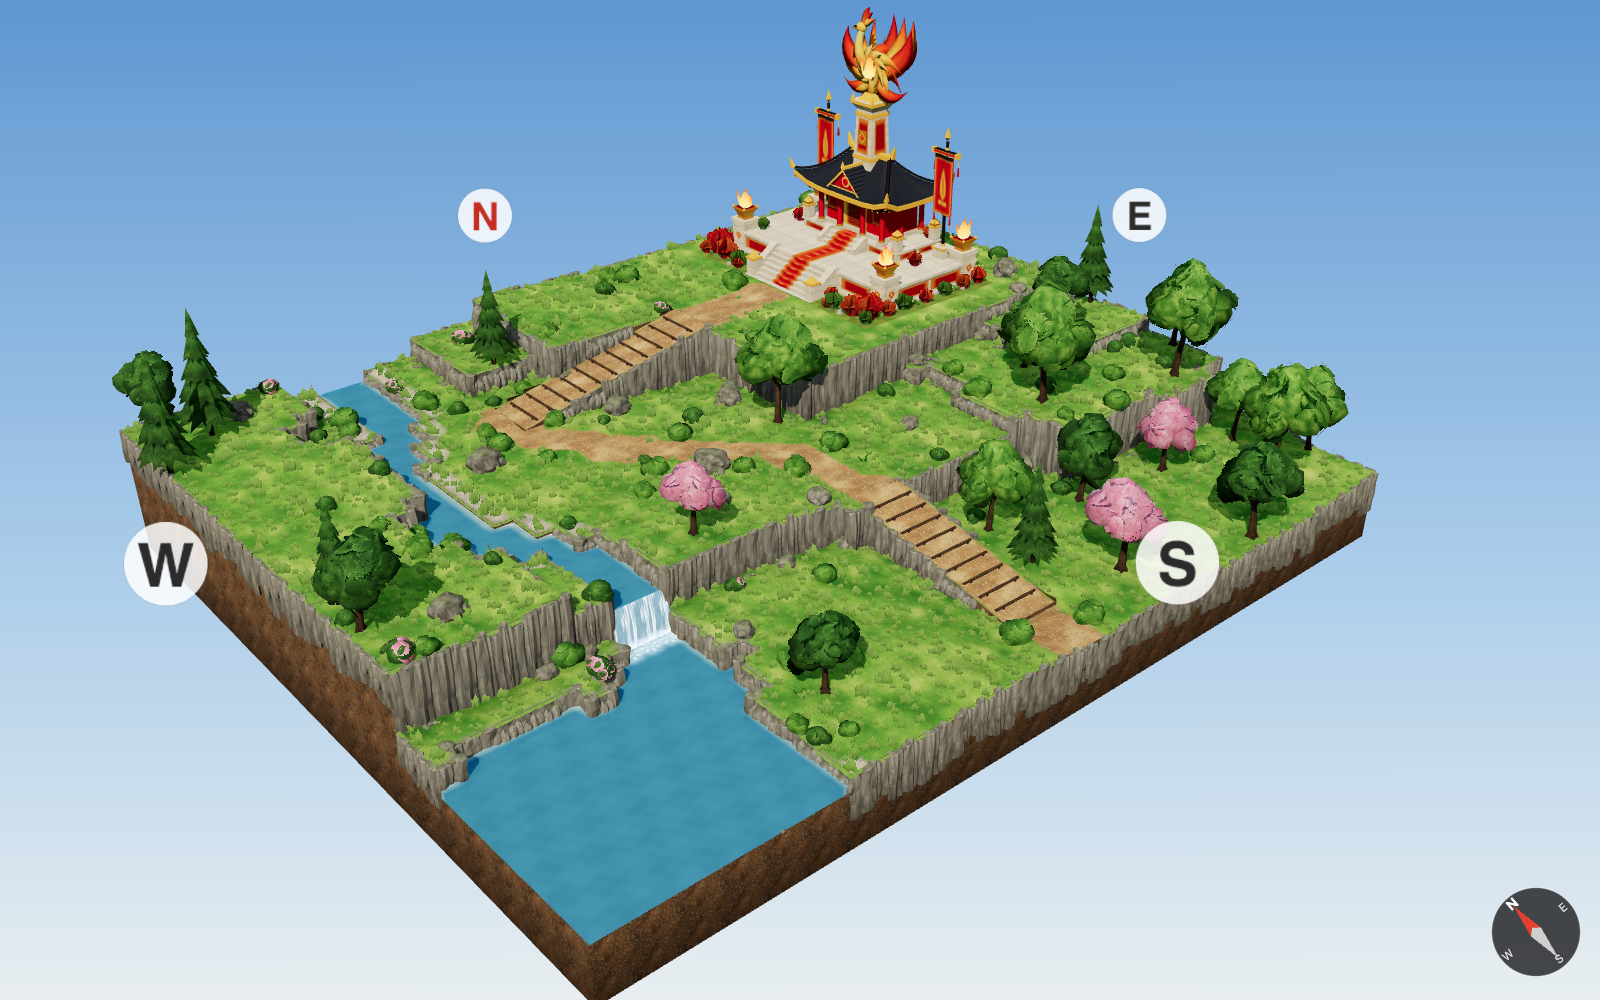
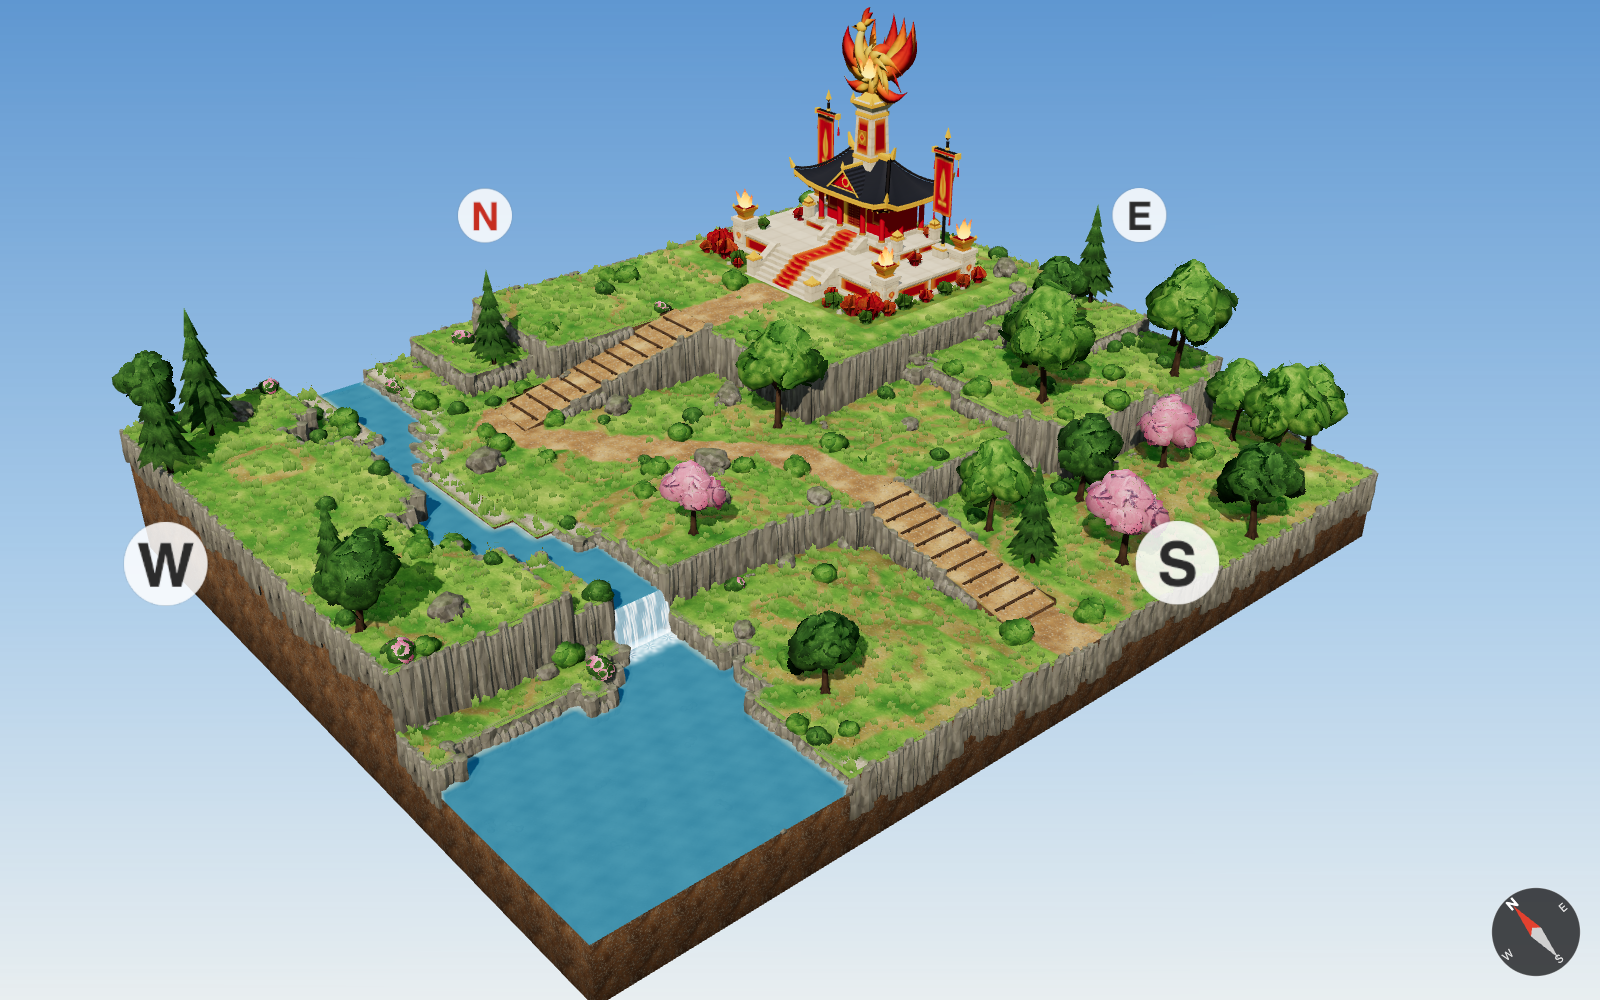
interactive_world: tile scene follows the 1x1 tile-system sheet (one step across any edge inside a region, ridge, saddles, swale, earth on slopes)
The example scene builds a limited vertex field of whole levels per region, so inside a region every edge joins and all five
shapes appear (saddles from diagonal mounds); sloped tiles show worn earth; new Ridge & saddles view; docs and renders updated.

diff --git a/interactive_world/core/tiles/scene_example.js b/interactive_world/core/tiles/scene_example.js
@@ -5,8 +5,10 @@
 // Built the same way as terrain/generate.js: named broad forms first, noise only perturbs them.
 //   * a STEP FIELD, constant per tile (sampled at the tile centre): the region's level. Two tiles in different regions disagree on their
 //     shared edge, which is what makes risers and cliffs;
-//   * a CONTINUOUS FIELD, sampled at each corner: gentle rolling ground, and the ramps (a ramp tile takes its height from the ramp only);
-//   * quantize every corner to 0.2 m levels and clamp each tile to one level of spread (the five shapes).
+//   * a VERTEX FIELD per region, in whole levels: gentle rolling ground plus small named forms (a ridge, diamond mounds that meet in
+//     saddles, a swale), limited so neighbouring vertices differ by at most one level. Tiles of one region share these corners, so inside
+//     a region every edge joins and every tile is one of the five shapes; ramps take their exact 0.2 m-per-metre heights instead;
+//   * the clamp to one level of spread per tile is kept as a safety net.
 // Pure data, no three.js.
 import { TileGrid, STEP, GROUND, NO_WATER } from './tile_grid.js';
 import { fbm, clamp } from '../math/noise.js';
@@ -26,6 +28,15 @@ export const SCENE = {
   // the dirt path, as a polyline in metres (x, z); the ramps are on it
   path: [[25.5, 40], [25.5, 27], [24.5, 22], [20, 16.5], [16.2, 12.5], [15.5, 9.5], [28, 9.5], [34.2, 9.5]],
   pathHalfWidth: 1.15,
+  // small landforms from the 1x1 tile-system sheet, in the low ground and on the terrace (metres; added to the rolling ground)
+  //   ridges: a crest along a segment falling 0.2 m per metre on both sides (ramp tiles on the flanks)
+  //   mounds: diamond (L1) hillocks centred on a tile corner; two of them touching diagonally make a saddle tile between them
+  //   swales: a shallow dry valley along a segment
+  forms: {
+    ridges: [{ a: [30.5, 38.5], b: [38.5, 33.5], h: 0.6 }],
+    mounds: [{ x: 43, z: 34, h: 0.4 }, { x: 42, z: 35, h: 0.4 }, { x: 31, z: 23, h: 0.4 }, { x: 30, z: 24, h: 0.4 }, { x: 17, z: 31, h: 0.4 }, { x: 18, z: 32, h: 0.4 }],
+    swales: [{ a: [26.5, 18.5], b: [34.5, 24.5], h: 0.4 }],
+  },
   stream: { x: 10, amp: 1.6, period: 11, halfWidth: 1.5, bedDrop: 0.4, waterDepth: 0.22, fallZ: 27 },
 };
 
@@ -74,8 +85,56 @@ function rampHeight(r, x, z) {
 /** Gentle rolling ground, metres (continuous; zero on pads, ramps and water). */
 function rolling(x, z) { return (fbm(x * 0.06, z * 0.06, SEED + 5, 3) - 0.5) * 2.2; }
 
+/** The named small landforms (SCENE.forms) at (x, z), metres. Slopes are 0.2 m per metre, so they quantize to ramp, corner and saddle tiles. */
+function forms(x, z) {
+  const f = SCENE.forms;
+  let h = 0;
+  for (const r of f.ridges) h = Math.max(h, r.h - 0.2 * distToPolyline([r.a, r.b], x, z));
+  for (const m of f.mounds) h = Math.max(h, m.h - 0.2 * (Math.abs(x - m.x) + Math.abs(z - m.z)));
+  for (const v of f.swales) h -= Math.max(0, v.h - 0.2 * distToPolyline([v.a, v.b], x, z));
+  return h;
+}
+
+/**
+ * A vertex field of levels (width + 1) x (depth + 1) (fn returns whole levels), limited so that every vertex differs from its eight neighbours by at
+ * most one level. Inside one region all tiles share these corners, so the ground there never breaks into risers and every tile is one
+ * of the five shapes (the 1x1 sheet's rule: at most one step across any edge). Risers and cliffs only come from region borders.
+ */
+function limitedField(width, depth, fn) {
+  const W1 = width + 1, D1 = depth + 1, f = new Int16Array(W1 * D1);
+  for (let z = 0; z < D1; z++) for (let x = 0; x < W1; x++) f[z * W1 + x] = fn(x, z);
+  for (let pass = 0, changed = true; changed && pass < 64; pass++) {
+    changed = false;
+    for (let z = 0; z < D1; z++) for (let x = 0; x < W1; x++) {
+      let lo = -Infinity, hi = Infinity;
+      for (let dz = -1; dz <= 1; dz++) for (let dx = -1; dx <= 1; dx++) {
+        const nx = x + dx, nz = z + dz;
+        if ((dx || dz) && nx >= 0 && nz >= 0 && nx < W1 && nz < D1) { const v = f[nz * W1 + nx]; lo = Math.max(lo, v - 1); hi = Math.min(hi, v + 1); }
+      }
+      const i = z * W1 + x, v = Math.min(Math.max(f[i], lo), hi);
+      if (v !== f[i]) { f[i] = v; changed = true; }
+    }
+  }
+  return f;
+}
+
 export function buildExampleScene() {
   const { width, depth } = SCENE;
+  const st0 = SCENE.stream, pad0 = SCENE.shrine;
+  const padR = { x0: pad0.tx, z0: pad0.tz, x1: pad0.tx + pad0.d, z1: pad0.tz + pad0.w };
+  const fields = {};
+  const fieldFor = (reg) => (fields[reg] ??= limitedField(width, depth, (x, z) => {
+    const L = (m) => Math.round(m / STEP);
+    if (reg === 'stream') return L(Math.min(0, rolling(x, z)) * 0.3);
+    if (reg === 'pool') return 0;
+    if (reg === 'low' || reg === 'terrace') return L(rolling(x, z)) + L(forms(x, z));   // forms quantized on their own keep their exact shapes
+    if (reg === 'plateau') {                                             // the plateau eases down to pad level near the pad
+      const dPad = Math.max(padR.x0 - x, x - padR.x1, padR.z0 - z, z - padR.z1, 0);
+      return L(rolling(x, z) * 0.45 * clamp(dPad / 4, 0, 1));
+    }
+    return L(rolling(x, z) * 0.6);
+  }));
+  const baseLevel = (reg) => Math.round((reg === 'stream' ? SCENE.levels.terrace - st0.bedDrop : SCENE.levels[reg]) / STEP);
   const grid = new TileGrid({ width, depth });
   const region = new Array(width * depth);
   const sh = SCENE.shrine, padRect = { x0: sh.tx, z0: sh.tz, x1: sh.tx + sh.d, z1: sh.tz + sh.w };   // turned W: d along x, w along z
@@ -94,20 +153,9 @@ export function buildExampleScene() {
     const corners = [0, 0, 0, 0];
     for (let k = 0; k < 4; k++) {
       const [x, z] = grid.cornerXZ(tx, tz, k);
-      let hm;
-      if (ramp) hm = rampHeight(ramp, x, z);
-      else if (pad) hm = SCENE.levels.plateau;
-      else if (reg === 'stream') hm = SCENE.levels.terrace - st.bedDrop + Math.min(0, rolling(x, z)) * 0.3;
-      else {
-        hm = SCENE.levels[reg];
-        const roll = reg === 'pool' ? 0 : reg === 'plateau' ? 0.45 : reg === 'low' || reg === 'terrace' ? 1 : 0.6;
-        hm += rolling(x, z) * roll;
-        if (reg === 'plateau') {                                         // the plateau eases down to pad level near the pad
-          const dPad = Math.max(padRect.x0 - x, x - padRect.x1, padRect.z0 - z, z - padRect.z1, 0);
-          hm = SCENE.levels.plateau + (hm - SCENE.levels.plateau) * clamp(dPad / 4, 0, 1);
-        }
-      }
-      corners[k] = Math.round(hm / STEP);
+      if (ramp) corners[k] = Math.round(rampHeight(ramp, x, z) / STEP);
+      else if (pad) corners[k] = Math.round(SCENE.levels.plateau / STEP);
+      else corners[k] = baseLevel(reg) + fieldFor(reg)[z * (width + 1) + x];
     }
     const lo = Math.min(...corners);
     for (let k = 0; k < 4; k++) corners[k] = Math.min(corners[k], lo + 1);   // one level of spread at most: the five shapes
@@ -143,6 +191,7 @@ export function buildExampleScene() {
       { name: 'upper ramp', x: 22, z: 9.5 },
       { name: 'rocky rise', x: 41, z: 24 },
       { name: 'pool', x: 6, z: 35 },
+      { name: 'ridge and saddles', x: 37, z: 35 },
     ],
   };
 }

diff --git a/interactive_world/core/render/tile_view.js b/interactive_world/core/render/tile_view.js
@@ -84,10 +84,10 @@ function groundMaterial(grid, uniforms) {
   const m = new THREE.MeshStandardMaterial({ roughness: 0.95, metalness: 0 });
   m.onBeforeCompile = (sh) => {
     Object.assign(sh.uniforms, uniforms);
-    sh.vertexShader = sh.vertexShader.replace('#include <common>', '#include <common>\nvarying vec3 vWorld;')
-      .replace('#include <worldpos_vertex>', '#include <worldpos_vertex>\nvWorld = (modelMatrix * vec4(transformed, 1.0)).xyz;');
+    sh.vertexShader = sh.vertexShader.replace('#include <common>', '#include <common>\nvarying vec3 vWorld;\nvarying vec3 vNormalW;')
+      .replace('#include <worldpos_vertex>', '#include <worldpos_vertex>\nvWorld = (modelMatrix * vec4(transformed, 1.0)).xyz;\nvNormalW = normalize(mat3(modelMatrix) * objectNormal);');
     sh.fragmentShader = sh.fragmentShader.replace('#include <common>', `#include <common>
-      varying vec3 vWorld;
+      varying vec3 vWorld; varying vec3 vNormalW;
       uniform sampler2D tGrass, tDirt, tSand, tSplat, tAO; uniform vec2 uSize; uniform float uGrid;`)
       .replace('#include <map_fragment>', `
       vec2 wuv = vWorld.xz / 4.0;
@@ -100,6 +100,10 @@ function groundMaterial(grid, uniforms) {
       float path = smoothstep(0.32, 0.62, sp.r + nz * 0.55);
       float sandW = smoothstep(0.30, 0.70, sp.g + nz * 0.5);
       float bed = smoothstep(0.2, 0.6, sp.b);
+      // sloped tiles show worn earth through the grass, as on the 1x1 tile sheet (one step over one metre is about 11 degrees)
+      float slope = 1.0 - normalize(vNormalW).y;
+      float earth = smoothstep(0.004, 0.022, slope + nz * 0.012) * 0.75;
+      grass = mix(grass, dirt * vec3(0.92, 0.88, 0.82), earth);
       vec3 col = mix(grass, sand, sandW);
       col = mix(col, dirt, path);
       col = mix(col, sand * vec3(0.62, 0.66, 0.62), bed);

diff --git a/interactive_world/core/tiles.html b/interactive_world/core/tiles.html
@@ -25,7 +25,7 @@
 <div id="app"></div>
 <div id="panel">
   <h1>Tile terrain · 1 m tiles, 0.2 m steps</h1>
-  <div class="row"><button data-view="hero">Hero</button><button data-view="shrine">Shrine</button><button data-view="falls">Waterfall</button><button data-view="ramp">Slope path</button><button data-view="rise">Rocky rise</button><button data-view="top">Top grid</button><button data-view="wide">Wide</button></div>
+  <div class="row"><button data-view="hero">Hero</button><button data-view="shrine">Shrine</button><button data-view="falls">Waterfall</button><button data-view="ramp">Slope path</button><button data-view="rise">Rocky rise</button><button data-view="forms">Ridge &amp; saddles</button><button data-view="top">Top grid</button><button data-view="wide">Wide</button></div>
   <div class="row"><button data-t="grid">1 m grid</button><button data-t="props">Pieces</button><button data-t="wire">Wireframe</button><button data-t="shadows">Shadows</button><button data-t="compass">Compass</button><button data-t="footprint">Footprint</button></div>
   <div class="box" data-asset><span class="dim">loading the kit…</span></div>
   <div class="box" data-cell></div>

diff --git a/interactive_world/core/app/tile_demo.js b/interactive_world/core/app/tile_demo.js
@@ -1,7 +1,7 @@
 // The tile terrain page (core/tiles.html): the example scene on 1 m tiles with 0.2 m steps, dressed with the terrain kit
 // (assets/development/terrain_kit.glb), the Fire-Kingdom Shrine on the plateau pad, a N/E/S/W compass, and a hover readout per tile.
 // URL options for scripted renders:
-//   core/tiles.html?view=hero|shrine|falls|ramp|rise|top|wide&grid=1&props=0&wire=1&shadows=0&compass=0&footprint=1&ui=0&seed=3&hover=tx,tz
+//   core/tiles.html?view=hero|shrine|falls|ramp|rise|forms|top|wide&grid=1&props=0&wire=1&shadows=0&compass=0&footprint=1&ui=0&seed=3&hover=tx,tz
 import * as THREE from 'three';
 import { createStage } from '../render/stage.js';
 import { createCompass } from '../render/compass.js';
@@ -60,6 +60,7 @@ const VIEWS = {
   falls: () => at(feature('waterfall'), 9, 6, 13, 0.5),
   ramp: () => at(feature('lower ramp'), 13, 9, 12, 0.5),
   rise: () => at(feature('rocky rise'), -14, 9, 16),
+  forms: () => at(feature('ridge and saddles'), -9, 8, 11),
 };
 function setView(name) {
   const v = (VIEWS[name] ?? VIEWS.hero)();

diff --git a/interactive_world/architecture/TILE_TERRAIN_ARCHITECTURE.md b/interactive_world/architecture/TILE_TERRAIN_ARCHITECTURE.md
@@ -1,8 +1,8 @@
 # Tile terrain architecture (1 m tiles, 0.2 m steps)
 
-The fine terrain layer after the "Quantized Heightmap Terrain" guide: a 1 m logical grid whose corner heights are whole 0.2 m levels, rendered as a smooth, dressed world. It follows the same rules as the 5 m cell terrain ([TERRAIN_CELL_ARCHITECTURE.md](TERRAIN_CELL_ARCHITECTURE.md)): every tile owns its four corners, neighbours may disagree, and walls fill the gaps. A 5 m cell is 5 × 5 tiles.
+The fine terrain layer after the "Quantized Heightmap Terrain" guide and the "Quantized 1×1 Terrain System" sheet: a 1 m logical grid whose corner heights are whole 0.2 m levels, rendered as a smooth, dressed world. It follows the same rules as the 5 m cell terrain ([TERRAIN_CELL_ARCHITECTURE.md](TERRAIN_CELL_ARCHITECTURE.md)): every tile owns its four corners, neighbours may disagree, and walls fill the gaps. A 5 m cell is 5 × 5 tiles.
 
-Status: **prototype, validated** on a 48 × 40 example island (`core/tiles.html`). Six node tests pass (`node core/tests/tiles.test.mjs`); the kit passes `node assets/development/scripts/kit_check.mjs`. Renders: `renders/tiles_*.png`.
+Status: **prototype, validated** on a 48 × 40 example island (`core/tiles.html`). Seven node tests pass (`node core/tests/tiles.test.mjs`); the kit passes `node assets/development/scripts/kit_check.mjs`. Renders: `renders/tiles_*.png`.
 
 ---
 
@@ -31,9 +31,13 @@ Subtract the lowest corner and each corner is 0 or 1. Up to rotation there are e
 | `ramp` | `[1,0,0,1]` | rises one step to the north | 4 |
 | `saddle` | `[1,0,1,0]` | two opposite corners raised | 2 |
 
+These are the sheet's five shapes (the sheet writes its corners in its own order, e.g. one low corner as `[1,1,1,0]`; up to rotation they are the same). Blender render of all five with their rotations: `assets/development/previews/terrain_kit_tile_shapes.png`.
+
 * `classify(corners)` → `{ shape, rotation, base }`. Rotation `r` = quarter turns counter-clockwise seen from above = three.js `rotation.y = r·π/2`, the same table as `FACING_ROTATION` (`r` 0 N, 1 W, 2 S, 3 E). One quarter turn moves corner `k` to `(k + 3) % 4`.
 * **Surface rule:** the top is the **bilinear** patch through the four corners, sampled on 4 × 4 sub-quads (32 triangles per tile). `tileHeightAt(grid, x, z)` and `tileNormalAt` use the same bilinear formula; the drawn triangles deviate from it by at most 3 mm (tested). Props stand on `tileHeightAt`.
 * The tile meshes are authored in Blender (`Tile_*` in `terrain_kit.glb`) from the same canonical table; `kit_check.mjs` fails if any tile vertex is off the bilinear patch.
+
+**Inside a region every edge joins** (the sheet's rule: at most one step across any edge). The example scene builds one vertex field of whole levels per region (rolling ground plus named small forms: a ridge, diamond mounds that meet diagonally in saddle tiles, a swale), limited so every vertex is within one level of its eight neighbours; all tiles of the region share those corners. Risers and cliffs only appear where regions meet (tested).
 
 ## 3. Edges (`core/tiles/tile_edges.js`)
 
@@ -80,7 +84,7 @@ Materials: 8 (terrain, rock, soil, bark, three tiling leaf textures, one foliage
 
 ## 7. Rendering (`core/render/tile_view.js`)
 
-* Ground shader: grass / dirt / sand textures in world space (4 m repeat, a second scale against tiling), blended by a per-tile splat texture (path, sand, bed) with linear filtering and noise so path edges are soft; a 2-texel-per-metre occlusion texture darkens cliff feet and the ground under crowns; optional 1 m grid lines.
+* Ground shader: sloped tiles show worn earth through the grass (by the surface normal, as on the sheet's tiles); grass / dirt / sand textures in world space (4 m repeat, a second scale against tiling), blended by a per-tile splat texture (path, sand, bed) with linear filtering and noise so path edges are soft; a 2-texel-per-metre occlusion texture darkens cliff feet and the ground under crowns; optional 1 m grid lines.
 * Walls: world-projected rock or soil by the `soil` attribute, darker towards the bottom of the island.
 * Water: transparent, animated ripple normals, shallow/deep colour and a foam line from the splat's water channel. Waterfalls: bent animated sheets with free-end fading and foam on the pool.
 * Pieces: one `InstancedMesh` per piece primitive (about 35 meshes for ~4,500 instances); foliage cards are alpha-tested, double-sided, lit with their authored normals, and sway in the wind.
@@ -101,4 +105,4 @@ A building footprint on tiles is `placeOnCells({ cx, cz, w, d, facing, cellSize:
 
 ## 10. Run it
 
-`node serve.mjs 5174`, open http://127.0.0.1:5174/core/tiles.html (`?view=hero|shrine|falls|ramp|rise|top|wide&grid=1&props=0&wire=1&hover=tx,tz&ui=0`). Screenshots: `node --experimental-websocket tools/shot.mjs out.png "<url>"`.
+`node serve.mjs 5174`, open http://127.0.0.1:5174/core/tiles.html (`?view=hero|shrine|falls|ramp|rise|forms|top|wide&grid=1&props=0&wire=1&hover=tx,tz&ui=0`). Screenshots: `node --experimental-websocket tools/shot.mjs out.png "<url>"`.
